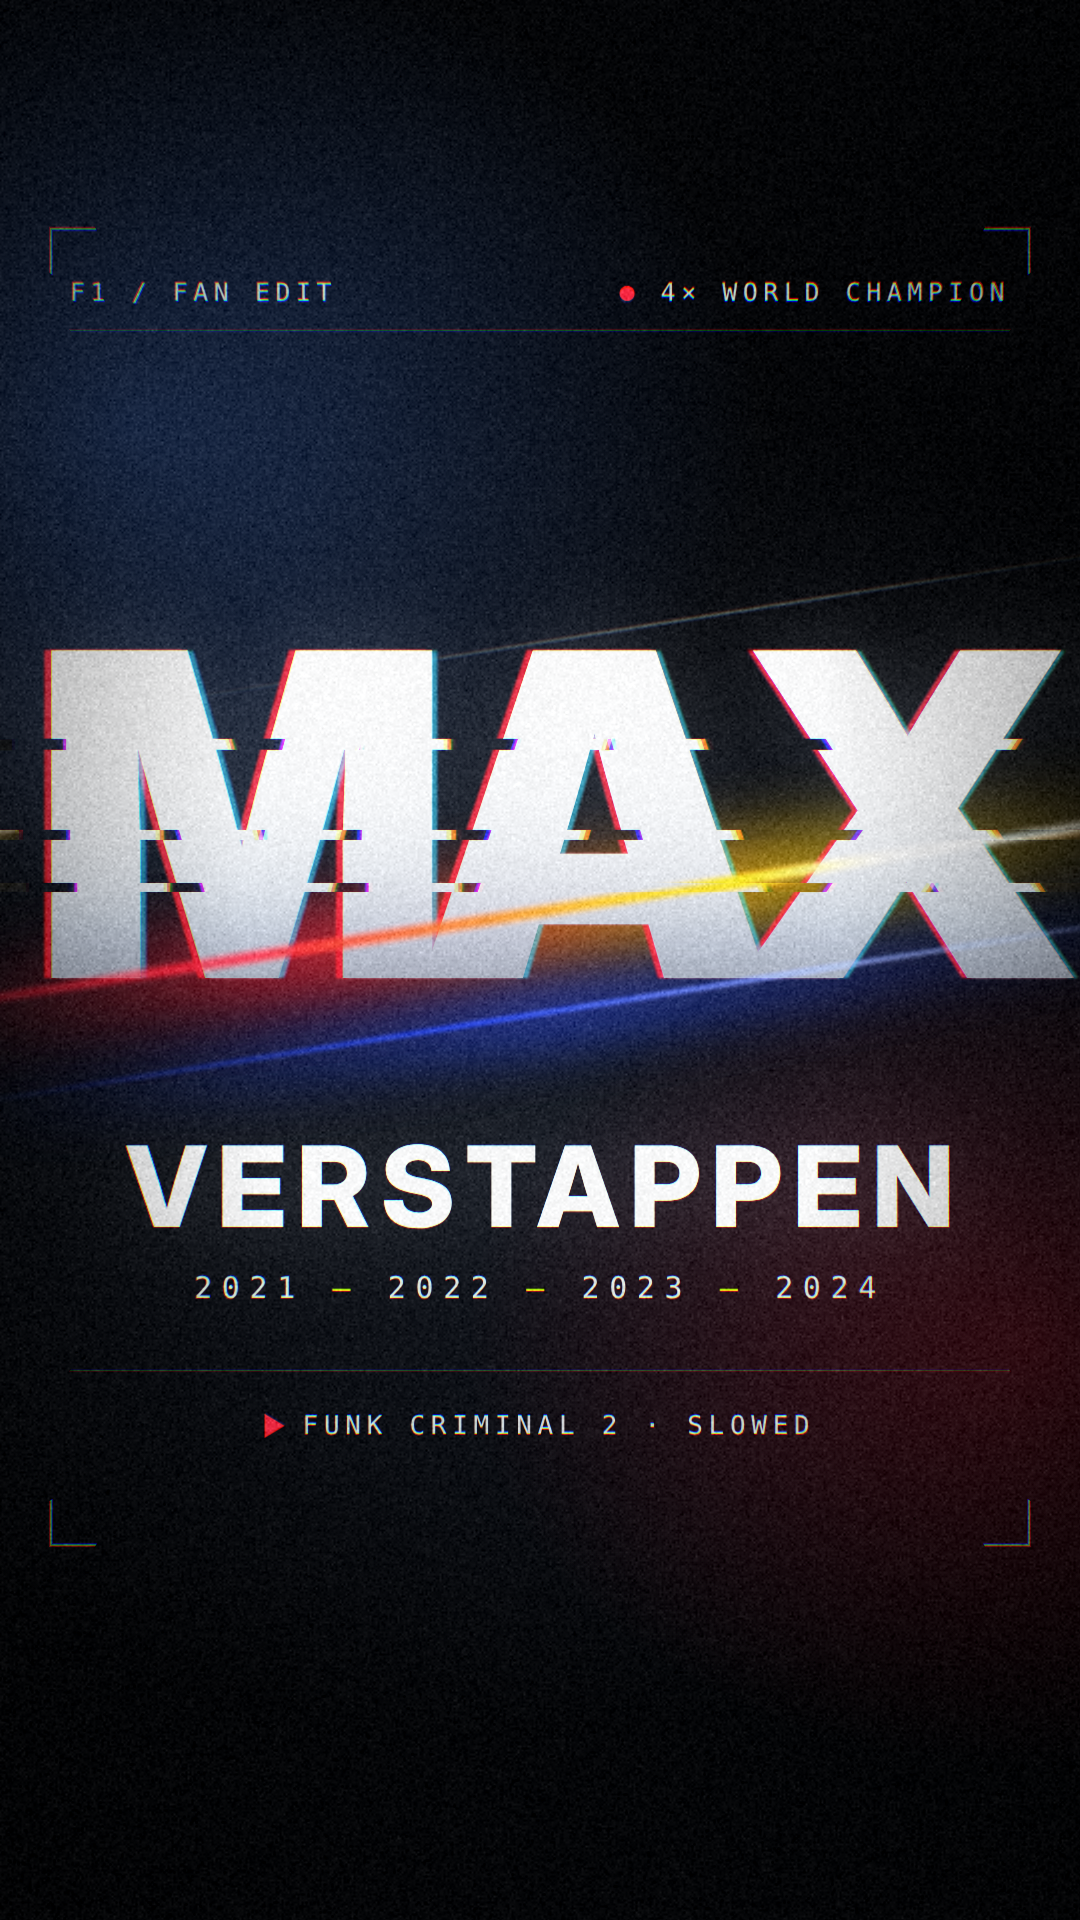
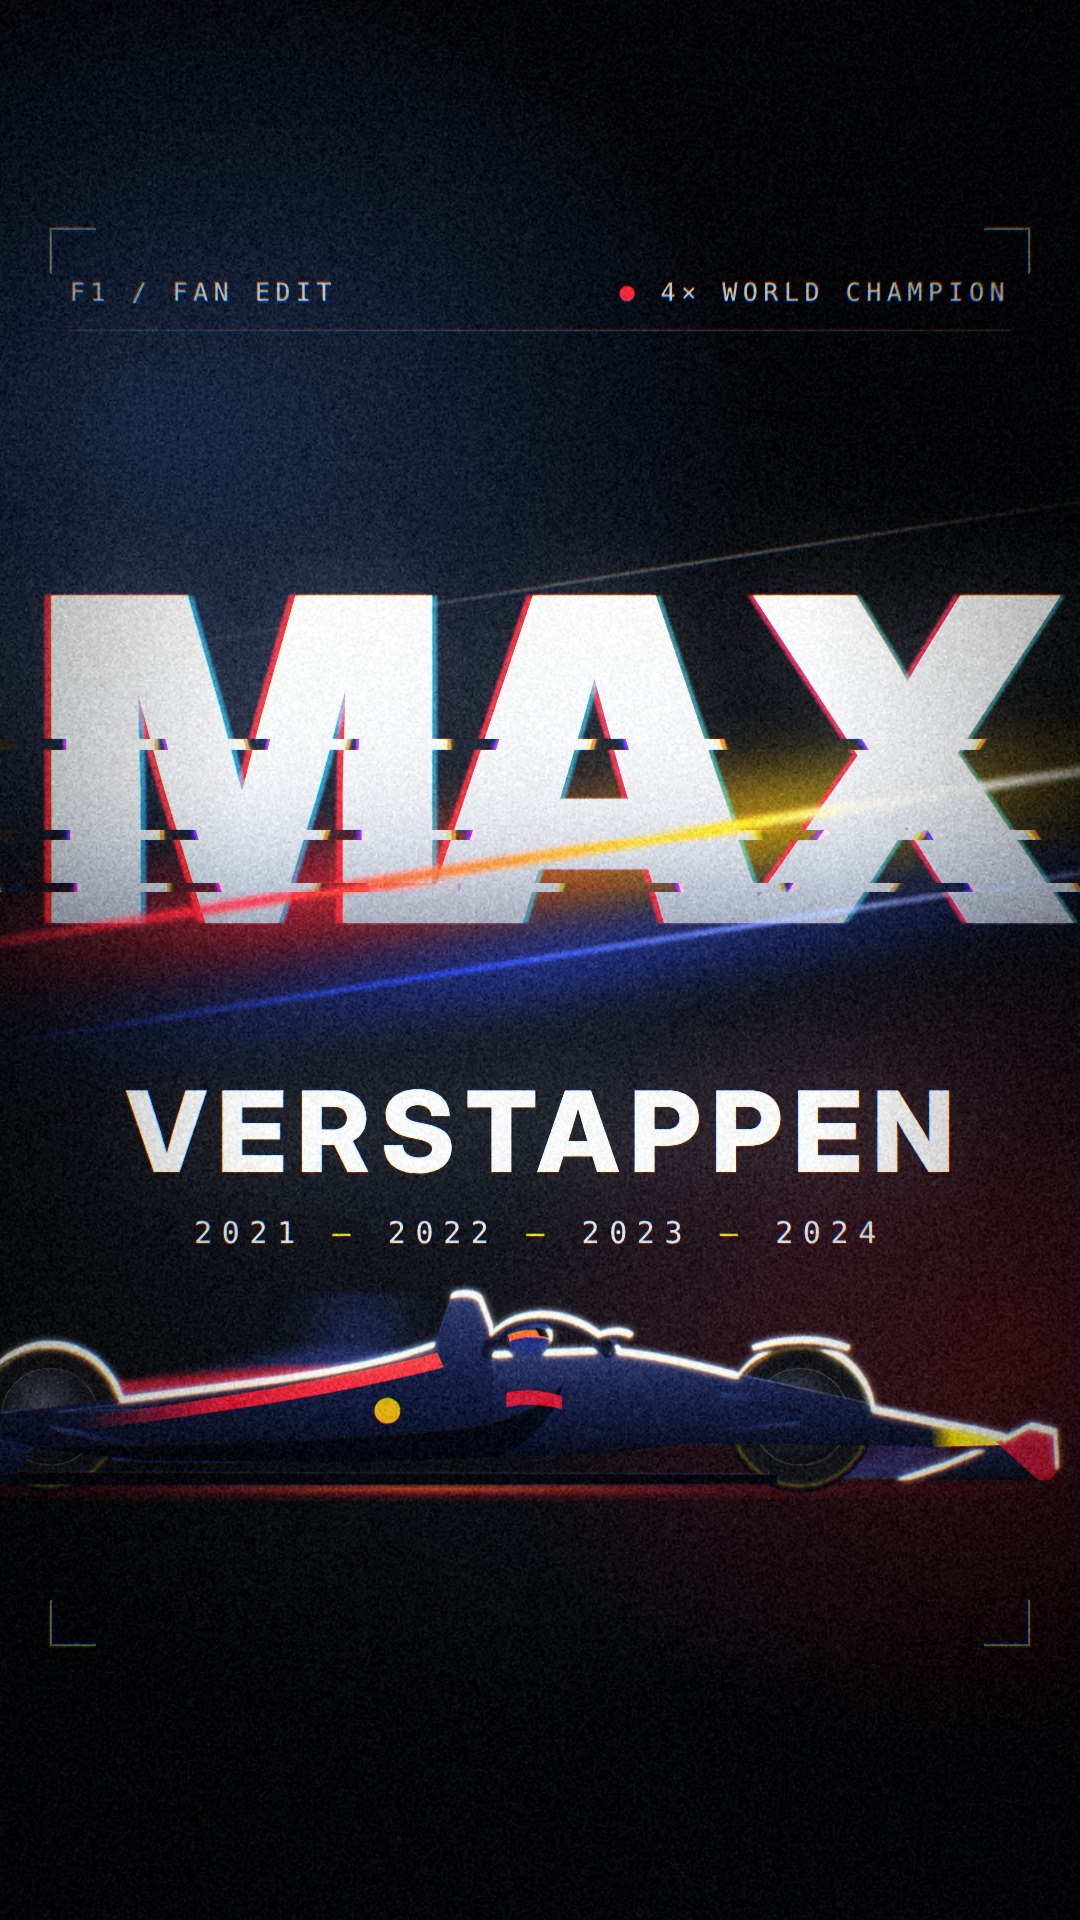
Cover: add vector Red Bull car with rim light, drop track title
Claude-Session: https://claude.ai/code/session_01Tvz1pSD3rvztqgrWrR4mCh

Changed region(s): [[0.0, 0.2812, 1.0, 0.8125]]

diff --git a/edit/cover/cover.html b/edit/cover/cover.html
@@ -24,19 +24,19 @@
   }
   /* light streaks: long exposure of a car passing */
   .streak { position: absolute; left: -200px; width: 1500px; transform: rotate(-9deg); border-radius: 50%; }
-  .s1 { top: 905px; height: 10px; filter: blur(3px);
+  .s1 { top: 850px; height: 10px; filter: blur(3px);
         background: linear-gradient(90deg, transparent 0%, var(--rb-red) 30%, var(--rb-yellow) 62%, #fff 74%, transparent 100%); }
-  .s2 { top: 880px; height: 70px; filter: blur(36px); opacity: .75;
+  .s2 { top: 825px; height: 70px; filter: blur(36px); opacity: .75;
         background: linear-gradient(90deg, transparent 5%, var(--rb-red) 35%, var(--rb-yellow) 65%, transparent 95%); }
-  .s3 { top: 1010px; height: 4px; filter: blur(2px); opacity: .9;
+  .s3 { top: 955px; height: 4px; filter: blur(2px); opacity: .9;
         background: linear-gradient(90deg, transparent 10%, var(--rb-blue) 45%, #9fb3ff 70%, transparent 100%); }
-  .s4 { top: 990px; height: 50px; filter: blur(30px); opacity: .55;
+  .s4 { top: 935px; height: 50px; filter: blur(30px); opacity: .55;
         background: linear-gradient(90deg, transparent 10%, var(--rb-blue) 50%, transparent 100%); }
-  .s5 { top: 640px; height: 2px; filter: blur(1px); opacity: .35;
+  .s5 { top: 585px; height: 2px; filter: blur(1px); opacity: .35;
         background: linear-gradient(90deg, transparent 20%, #fff 60%, transparent 100%); }
 
   .max {
-    position: absolute; left: 0; right: 0; top: 590px; text-align: center;
+    position: absolute; left: 0; right: 0; top: 535px; text-align: center;
     font-weight: 900; font-size: 450px; line-height: 1; letter-spacing: -0.06em; padding-right: .06em;
   }
   .max span { position: absolute; left: 0; right: 0; }
@@ -47,12 +47,12 @@
     -webkit-background-clip: text; background-clip: text; color: transparent;
   }
   .name {
-    position: absolute; left: 0; right: 0; top: 1118px; text-align: center;
+    position: absolute; left: 0; right: 0; top: 1063px; text-align: center;
     font-weight: 800; font-size: 112px; letter-spacing: .09em; padding-left: .09em;
     color: var(--ink);
   }
   .years {
-    position: absolute; left: 0; right: 0; top: 1270px; text-align: center;
+    position: absolute; left: 0; right: 0; top: 1215px; text-align: center;
     font-family: var(--mono); font-size: 30px; letter-spacing: .32em; color: rgba(238,241,245,.78);
   }
   .years b { color: var(--rb-yellow); font-weight: 400; }
@@ -63,17 +63,14 @@
   .tl { top: 278px; left: 70px; }
   .tr { top: 278px; right: 70px; }
   .tr i { font-style: normal; color: var(--rb-red); }
-  .track { top: 1410px; left: 0; right: 0; text-align: center; font-size: 26px; }
-  .track::before { content: ""; display: inline-block; width: 0; height: 0; margin-right: 18px;
-                   border-left: 20px solid var(--rb-red); border-top: 12px solid transparent;
-                   border-bottom: 12px solid transparent; vertical-align: -3px; }
+  .car { position: absolute; left: -150px; top: 1275px; width: 1250px; }
 
   /* registration marks */
   .mark { position: absolute; width: 46px; height: 46px; border-color: rgba(238,241,245,.45); border-style: solid; }
   .m1 { top: 228px; left: 50px;  border-width: 2px 0 0 2px; }
   .m2 { top: 228px; right: 50px; border-width: 2px 2px 0 0; }
-  .m3 { top: 1500px; left: 50px;  border-width: 0 0 2px 2px; }
-  .m4 { top: 1500px; right: 50px; border-width: 0 2px 2px 0; }
+  .m3 { top: 1600px; left: 50px;  border-width: 0 0 2px 2px; }
+  .m4 { top: 1600px; right: 50px; border-width: 0 2px 2px 0; }
 </style>
 </head>
 <body>
@@ -100,7 +97,6 @@
   <div class="name">VERSTAPPEN</div>
   <div class="years">2021 <b>—</b> 2022 <b>—</b> 2023 <b>—</b> 2024</div>
 
-  <div class="bar" style="top:1370px"></div>
-  <div class="meta track">FUNK CRIMINAL 2 · SLOWED</div>
+  <img class="car" src="car.svg" alt="">
 </body>
 </html>
